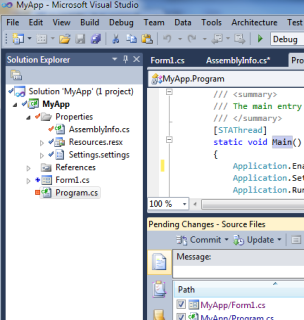
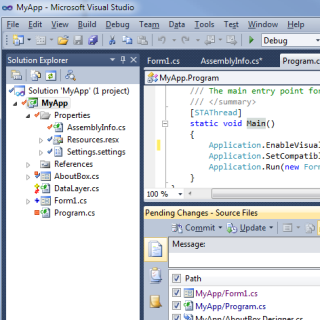
Update the welcome screenshot to a VS2010 RTM version

diff --git a/www/cn-project-pages/snippets/HtmlSnippet2.html b/www/cn-project-pages/snippets/HtmlSnippet2.html
@@ -1,7 +1,7 @@
 <div id="welcome-box">
   <table id="welcome-table">
     <tr>
-      <td><a href="/ankhsvn/screenshots"><img src="images/welcome.png" width="304" height="320"
+      <td><a href="/ankhsvn/screenshots"><img src="images/welcome.png" width="320" height="320"
                     alt="AnkhSVN ScreenShot" /></a></td>
       <td id="welcome-text">
         <p><strong>AnkhSVN</strong> is a Subversion Source Control Provider

diff --git a/www/cn-project-pages/snippets/HtmlSnippet1.html b/www/cn-project-pages/snippets/HtmlSnippet1.html
@@ -5,5 +5,5 @@
         ></a><h1><span>AnkhSVN</span> - Subversion Support for Visual Studio</h1>
       <span>The 100% Opensource Source Code Management Solution for Microsoft Visual Studio.</span>
     </div>
-  </div>                          
+  </div>
 </div>
